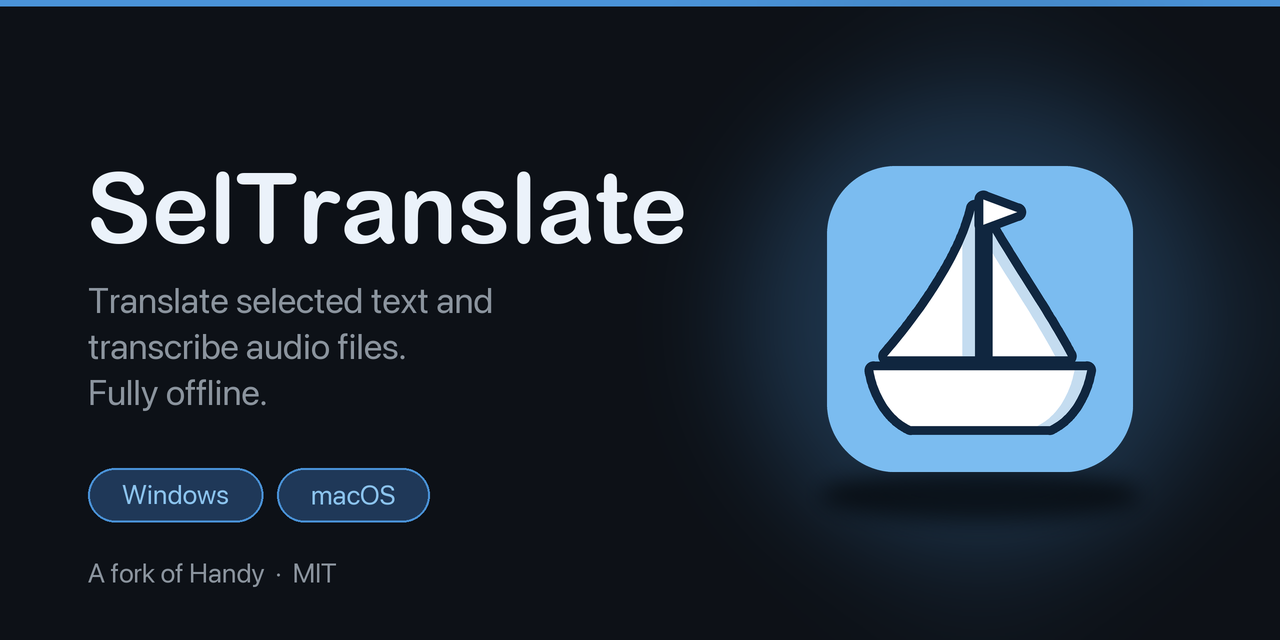
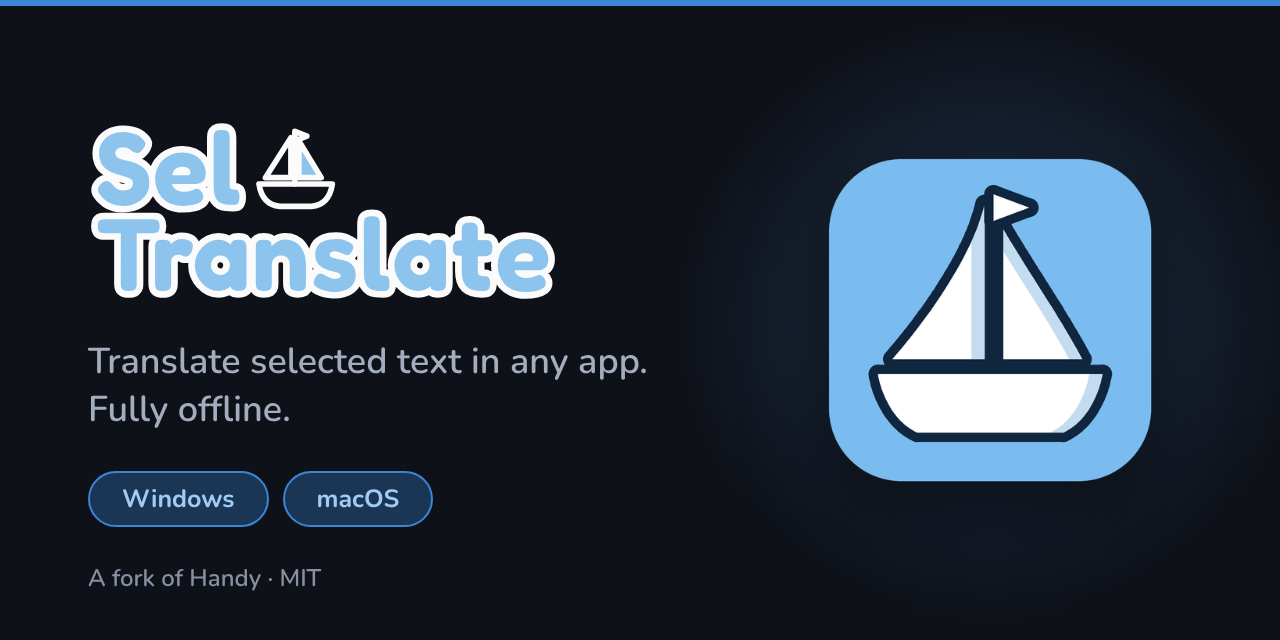
feat: tell NVIDIA owners what CUDA needs before they pick it
The engine choice only said "NVIDIA only", so CUDA looked like the better
pick for any NVIDIA card, including ones whose driver is too old for it.
Now Vulkan is marked as recommended, and with an NVIDIA card the choice
says CUDA needs driver 580 or newer and that translation falls back to
Vulkan by itself. The README banner drops file transcription (Handy's now)
and shows the new wordmark.

Claude-Session: https://claude.ai/code/session_0183KrAVc6YQ5eXksiSrZdpy

diff --git a/src/components/settings/translate/TranslateSetup.tsx b/src/components/settings/translate/TranslateSetup.tsx
@@ -401,11 +401,13 @@ export const TranslateSetup: React.FC<TranslateSetupProps> = ({ advanced }) => {
             </label>
           ))}
         </div>
-        {!plan.nvidia && (
-          <p className="text-xs text-ink-3">
-            {t("translateSetup.engine.nvidiaOnly")}
-          </p>
-        )}
+        <p className="text-xs text-ink-3">
+          {t(
+            plan.nvidia
+              ? "translateSetup.engine.cudaHint"
+              : "translateSetup.engine.nvidiaOnly",
+          )}
+        </p>
         {busy && (
           <p className="text-xs text-ink-3">
             {t("translateSetup.engine.busy")}
@@ -832,9 +834,13 @@ export const TranslateSetup: React.FC<TranslateSetupProps> = ({ advanced }) => {
               </label>
             );
           })}
-          {hasEngineChoice && !plan.nvidia && (
+          {hasEngineChoice && (
             <p className="text-xs text-ink-3">
-              {t("translateSetup.engine.nvidiaOnly")}
+              {t(
+                plan.nvidia
+                  ? "translateSetup.engine.cudaHint"
+                  : "translateSetup.engine.nvidiaOnly",
+              )}
             </p>
           )}
         </div>
